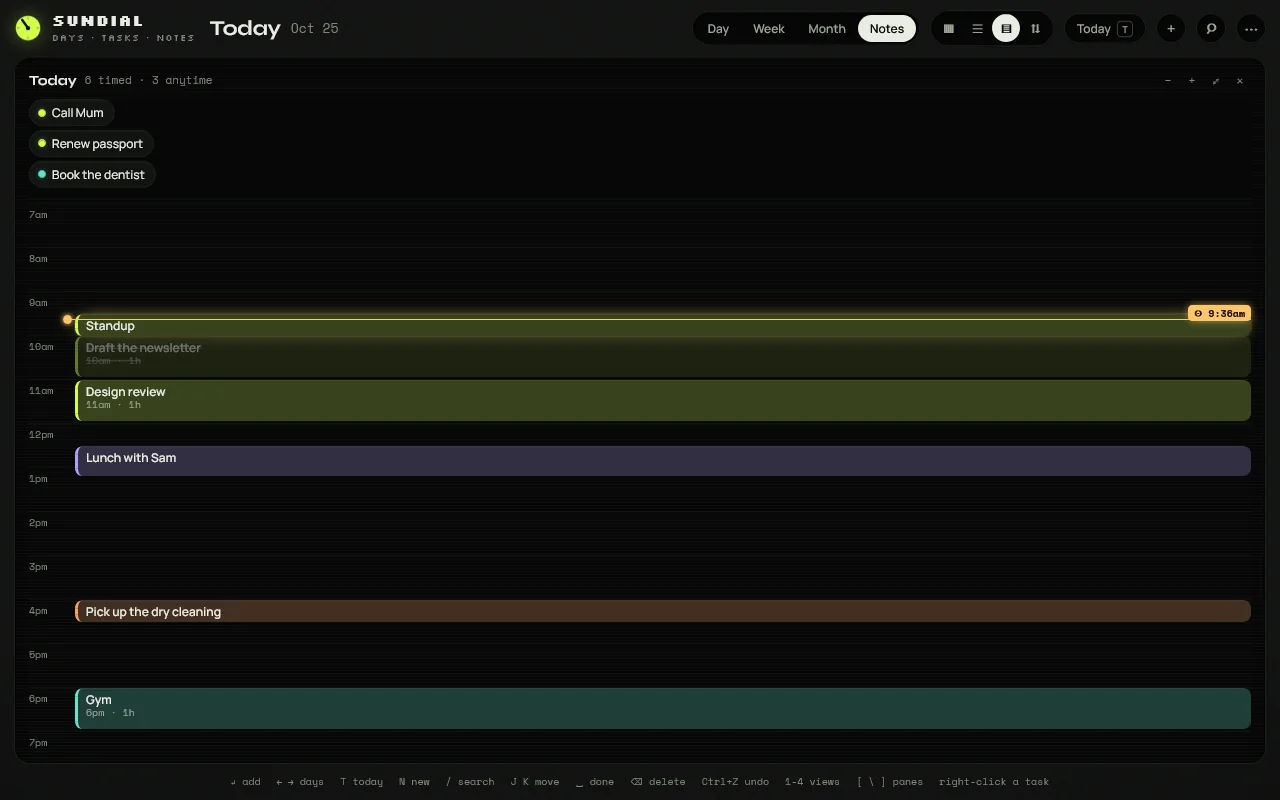
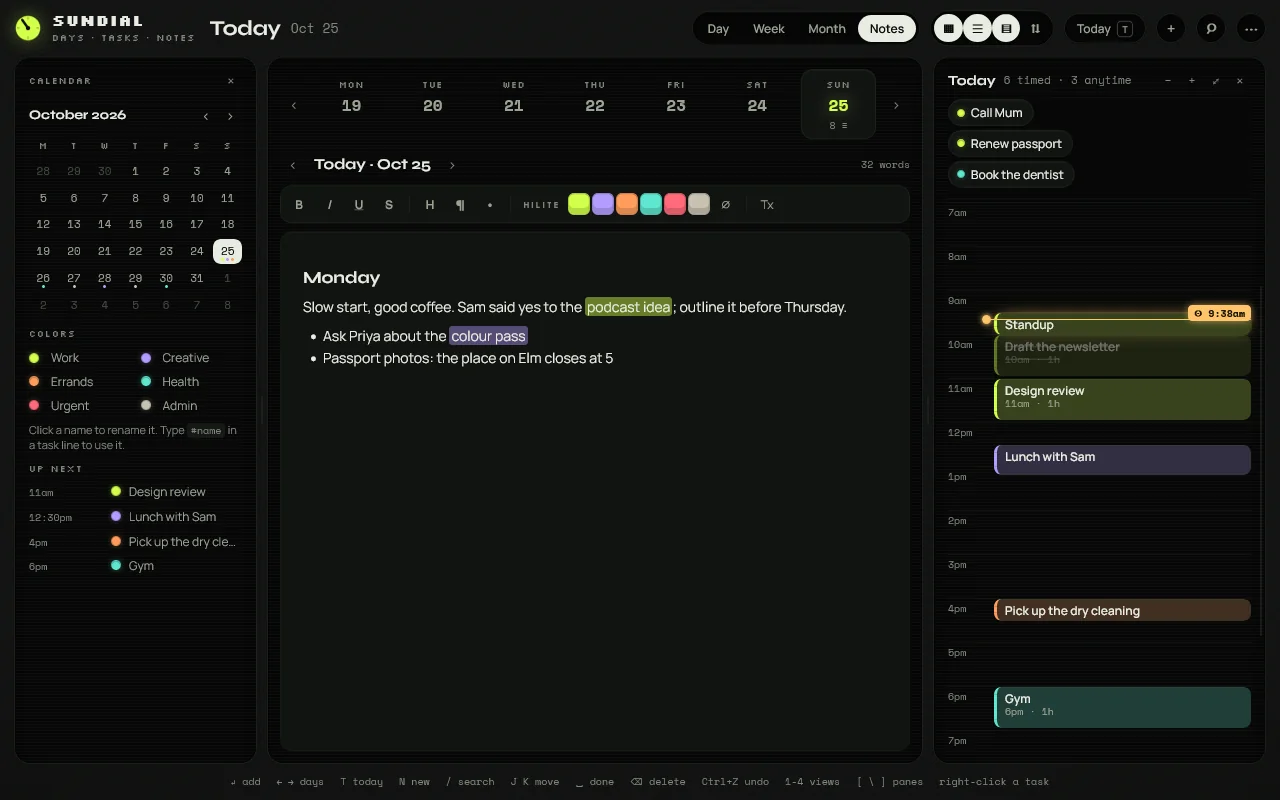
Demo capture hook: all panes by default; notes screenshot re-taken

diff --git a/ui/ui.js b/ui/ui.js
@@ -1071,7 +1071,7 @@ async function init(){
 function webInit(){
   appVersion=webVersion();
   // ?demo=1 (web only, used for screenshots): skip first-run, dark theme, optional &view=day|week|month|notes. Nothing is persisted beyond this browser's own storage, as always.
-  try{const q=new URLSearchParams(location.search);if(q.get('demo')==='1'){document.documentElement.classList.add('nomotion');S().onboarded=true;S().theme='dark';const v=q.get('view');if(['day','week','month','notes'].includes(v))view=v;const pn=q.get('panes');if(pn){state.layout.cal=pn.includes('cal');state.layout.board=pn.includes('board');state.layout.tl=pn.includes('tl')}
+  try{const q=new URLSearchParams(location.search);if(q.get('demo')==='1'){document.documentElement.classList.add('nomotion');S().onboarded=true;S().theme='dark';const v=q.get('view');if(['day','week','month','notes'].includes(v))view=v;const pn=q.get('panes')||'cal,board,tl';state.layout.cal=pn.includes('cal');state.layout.board=pn.includes('board');state.layout.tl=pn.includes('tl');
     if(state.tasks.every(t=>t.example)){const t=todayStr();state.tasks=[];state.tombstones={};
       for(const [raw,d] of [['Standup 9:30am 15m #work',t],['Design review 11am 1h #work',t],['Lunch with Sam 12:30pm 45m #creative',t],['Pick up the dry cleaning 4pm #errands',t],['Gym 6pm 1h #health',t],['Call Mum',t],['Renew passport',t],['Book the dentist #health',t],['Draft the newsletter 10am 1h #work',t],['Dentist 10:15am #health',addDays(t,1)],['Rent #admin',addDays(t,2)],['Script read-through 2pm 1h #creative',addDays(t,3)],['Weekly reset 5pm 30m #admin',addDays(t,4)],['Hike 8am 3h #health',addDays(t,5)]])addTask(raw,d,undefined,true);
       const done=state.tasks.find(x=>/newsletter/.test(x.title));if(done)completeTask(done.id,true);
